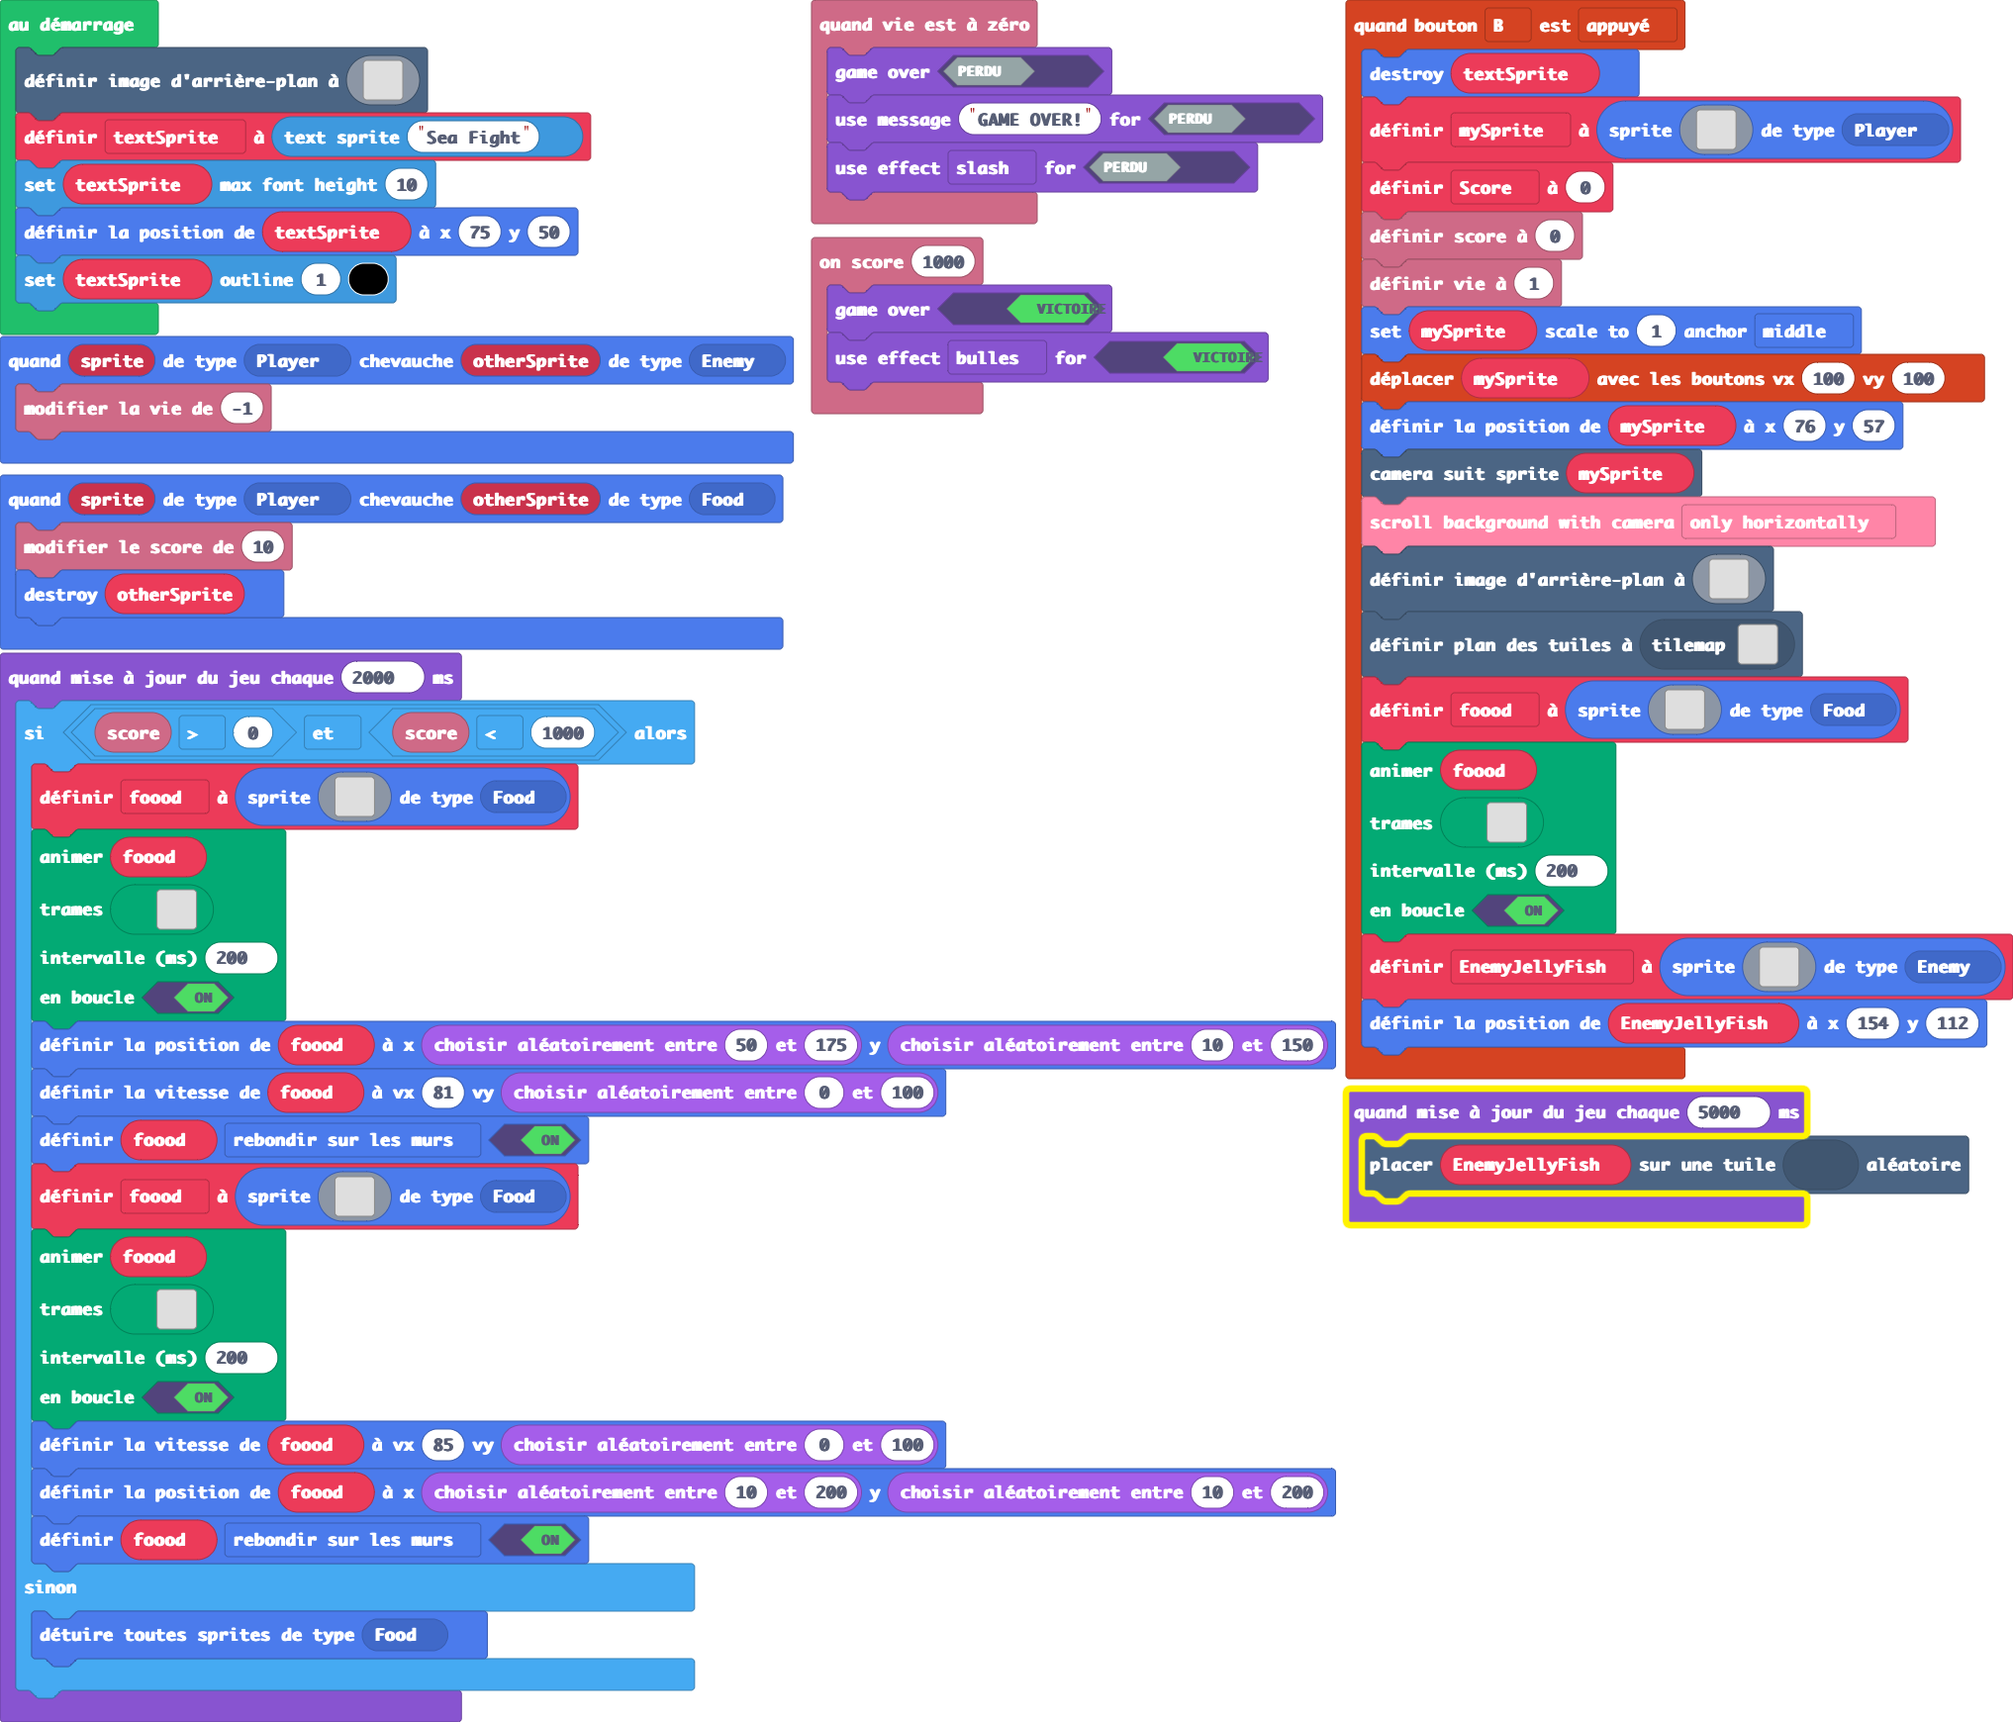
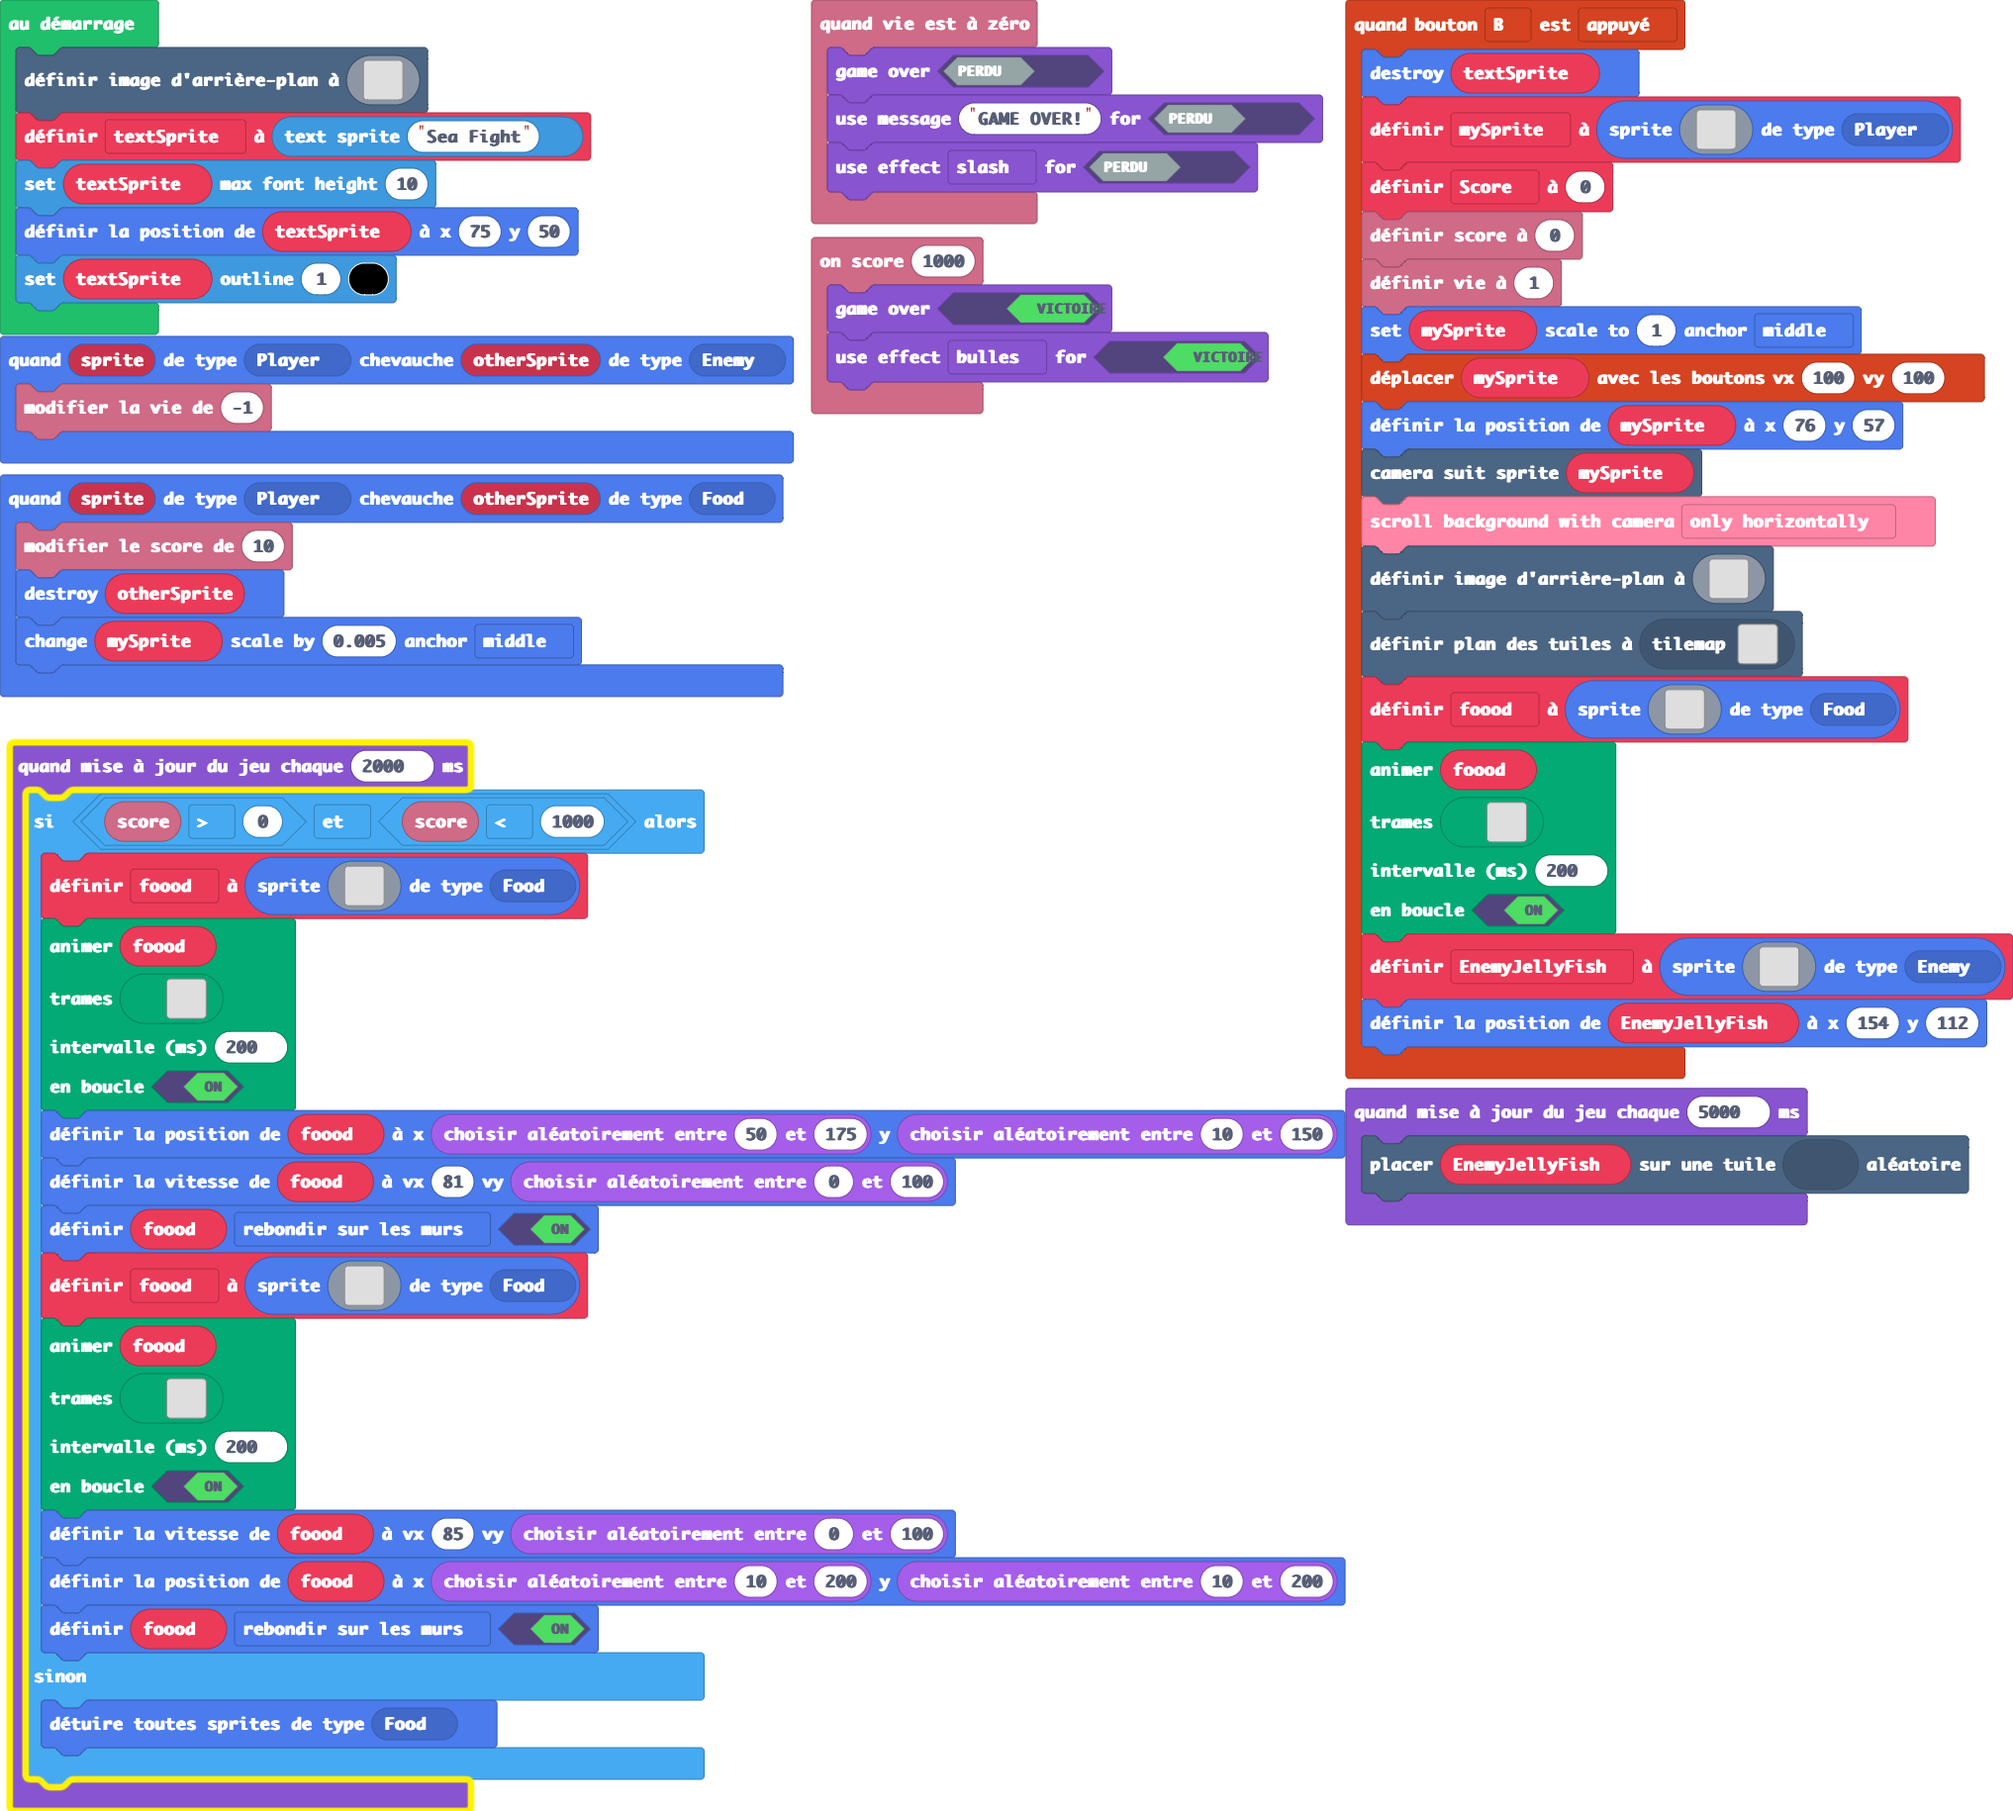
Mise à jour main.blocks, main.ts

diff --git a/main.ts b/main.ts
@@ -248,6 +248,7 @@ info.onLifeZero(function () {
 sprites.onOverlap(SpriteKind.Player, SpriteKind.Food, function (sprite, otherSprite) {
     info.changeScoreBy(10)
     sprites.destroy(otherSprite)
+    mySprite.changeScale(0.005, ScaleAnchor.Middle)
 })
 sprites.onOverlap(SpriteKind.Player, SpriteKind.Enemy, function (sprite, otherSprite) {
     info.changeLifeBy(-1)
